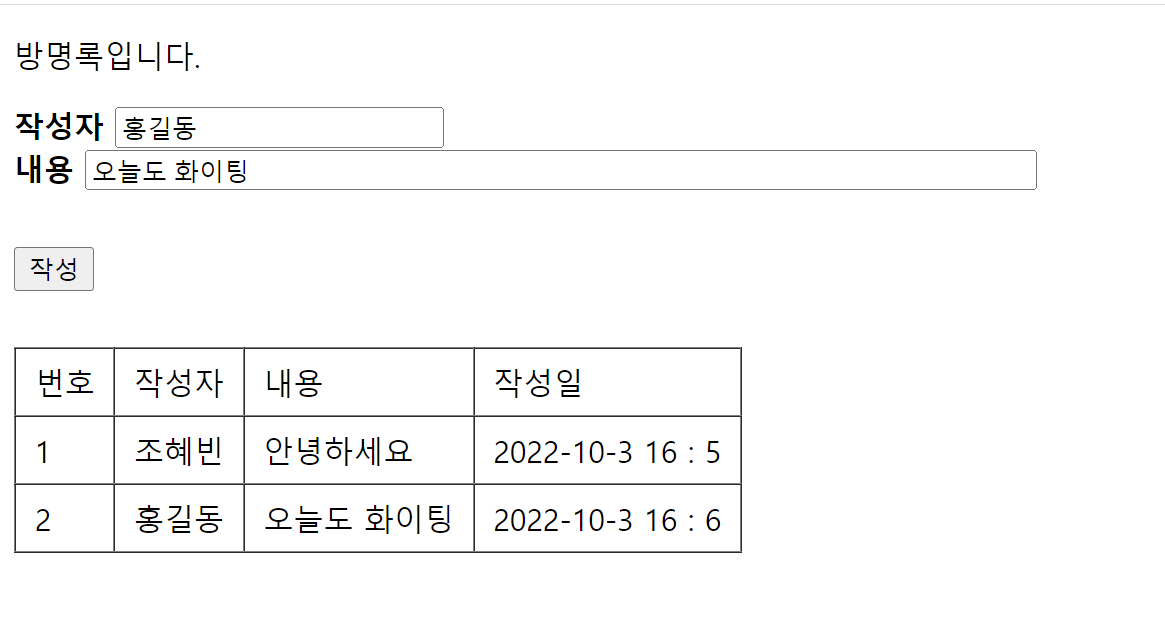
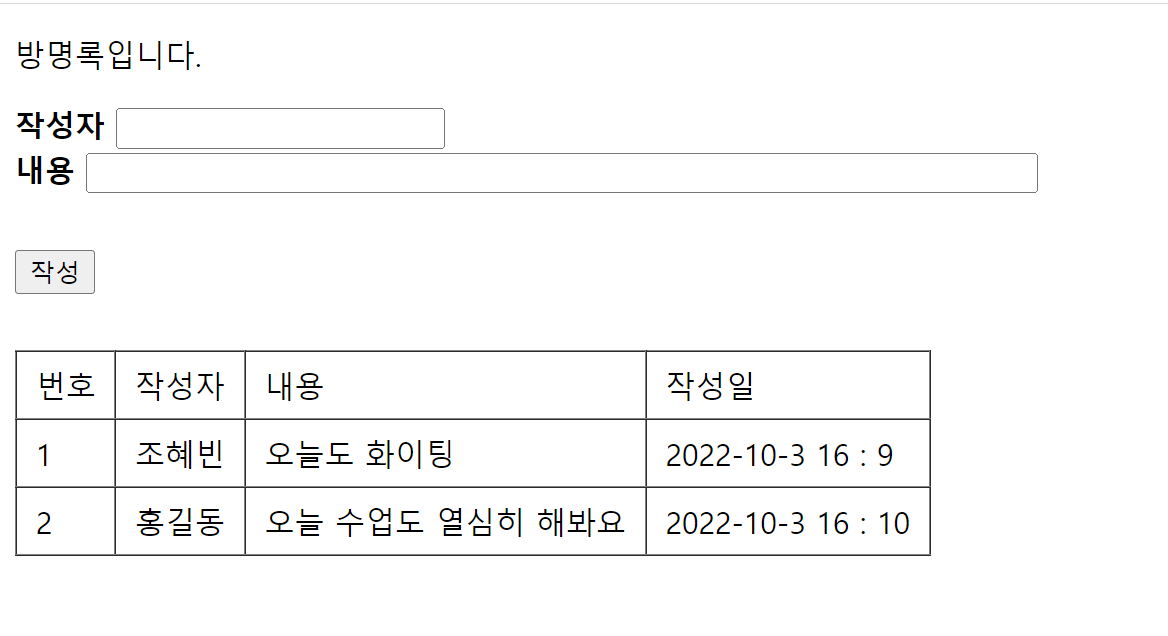
feat:practice finish

diff --git a/JS/221103_practice_3.html b/JS/221103_practice_3.html
@@ -1,0 +1,137 @@
+<!DOCTYPE html>
+<html lang="en">
+<head>
+    <meta charset="UTF-8">
+    <meta http-equiv="X-UA-Compatible" content="IE=edge">
+    <meta name="viewport" content="width=device-width, initial-scale=1.0">
+    <style>
+
+        .menuBox{
+            width: 350px;
+            height: 100px;
+          position: relative;
+          margin-bottom: 40px;
+    
+        }
+
+        .content span{
+            display: inline-block;
+            background-color: white;
+            margin-left: 10px;
+        }
+
+        .content{
+            margin-left: 20px;
+            z-index: 2;
+        }
+
+
+
+    </style>
+    <title>Document</title>
+</head>
+<body>
+    <h1>피자 주문</h1>
+
+    <fieldset>
+        <legend>사이즈</legend>
+            <p>Large - 24000 원</p>
+    </fieldset>
+
+    <fieldset>
+        <legend>추가주문</legend>
+        <p>
+            <input type="checkbox" name="" id="pickle"  onchange="addPrice(this);" value="800">
+            <label for="pickle">피클(800원)</label>
+            <input type="checkbox" name="" id="chili"   onchange="addPrice(this);" value="300">
+            <label for="chili">칠리 소스(300원)</label>
+            <input type="checkbox" name="" id="dipping"   onchange="addPrice(this);" value="200">
+            <label for="dipping">디핑 소스(200원)</label>
+            <input type="checkbox" name="" id="stick"   onchange="addPrice(this);" value="4800">
+            <label for="stick">치즈 스틱(4개, 4800원)</label>
+            <input type="checkbox" name="" id="salad"  onchange="addPrice(this);" value="2400">
+            <label for="salad">콘 샐러드(2400원)</label>
+        </p>
+    </fieldset>
+
+    <fieldset>
+        <legend>합계</legend>
+        <p id="sum">
+            0
+        </p>
+    </fieldset>
+
+
+    <script>
+        let sum = document.querySelector('#sum');
+        let pickle = document.querySelector('#pickle');
+        let chili = document.querySelector('#chili');
+        let dipping = document.querySelector('#dipping');
+        let stick = document.querySelector('#stick');
+        let salad = document.querySelector('#salad');
+
+        let sumprice = Number(sum.innerText);
+        
+        function addPrice(param) {
+            if(param.checked){
+                
+                sumprice += Number(param.value);
+            }else{
+                sumprice -= Number(param.value);
+            }
+            if(!pickle.checked && !chili.checked && !dipping.checked && !stick.checked && !salad.checked){
+                sum.innerText = 0;
+            }else{
+                sum.innerText = sumprice + 24000;
+            }
+        }
+
+    </script>
+</body>
+</html>
+
+
+
+<!--
+    if(name === 'pickle'){
+    if(pickle.checked){
+        sumprice+= 800;
+    }
+    else{
+        sumprice -= 800;
+    }
+}
+else if(name === 'chili'){
+    if(chili.checked){
+        sumprice+= 300;
+    }
+    else{
+        sumprice -= 300;
+    }
+}
+else if(name === 'dipping'){
+    if(dipping.checked){
+        sumprice+= 200;
+    }
+    else{
+        sumprice -= 200;
+    }
+}
+else if(name === 'stick'){
+    if(stick.checked){
+        sumprice+= 4800;
+    }
+    else{
+        sumprice -= 4800;
+    }
+}
+else if(name === 'salad'){
+    if(salad.checked){
+        sumprice+= 2400;
+    }
+    else{
+        sumprice -= 2400;
+    }
+}
+
+-->

diff --git a/JS/221103_3.html b/JS/221103_3.html
@@ -15,6 +15,18 @@
     </ul>
     <button type="button" onclick="add();">추가</button>
     <button type="button" onclick="deleteLi();">삭제</button>
+
+
+    <div class="greets">
+        <div class="greet">
+            Hello
+        </div>
+        <div class="greet">
+            Hi
+        </div>
+    </div>
+
+    <button type="button" onclick="addGreet();">greet 추가</button>
     <script>
         var tag = document.querySelector('img');
         var ul = document.querySelector('ul');
@@ -48,6 +60,25 @@
             */
 
         }
+
+        const greetnode = document.querySelectorAll('.greet');
+        const greetHtml = document.getElementsByClassName('greet');
+        //const greets = document.getElementsByClassName('greets'); //htmlcollection
+        const greets = document.querySelector('.greets'); //nodelist
+
+        console.log(greets);
+        console.log(greetnode.length);
+        console.log(greetHtml.length);
+
+        function addGreet(){
+            let newgreet = document.createElement('div');
+            newgreet.innerText = '안녕하세요';
+            greets.append(newgreet);
+            
+        console.log(greetnode.length);
+        console.log(greetHtml.length);
+        }
+
     </script>
 </body>
 </html>

diff --git a/JS/221103_practice2.html b/JS/221103_practice2.html
@@ -16,6 +16,30 @@
         button{
             margin: 30px 0;
         }
+
+        label{
+            display: inline-block;
+            width: 50px;
+        }
+
+        input{
+            border: none;
+            outline: none;
+            border-bottom: 1px solid rgb(94, 94, 94);
+        }
+
+        button{
+            border: none;
+            background-color: rgb(143, 188, 255);
+            padding: 7px 10px;
+            border-radius: 10px;
+            color: white;
+        }
+
+        table tr:first-child td{
+            font-weight: 600;
+        }
+
     </style>
     <title>Document</title>
 </head>
